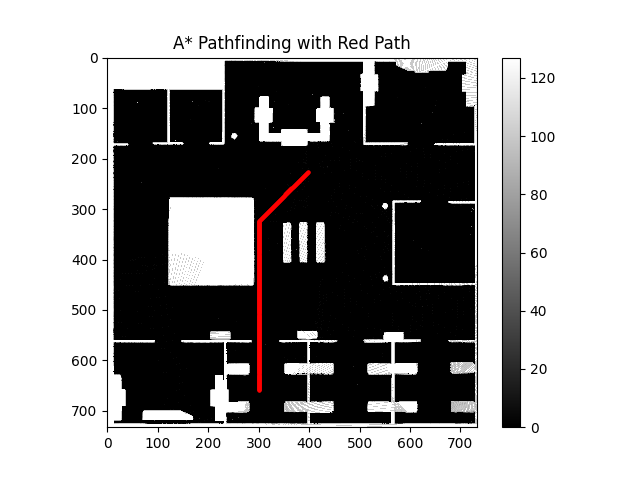
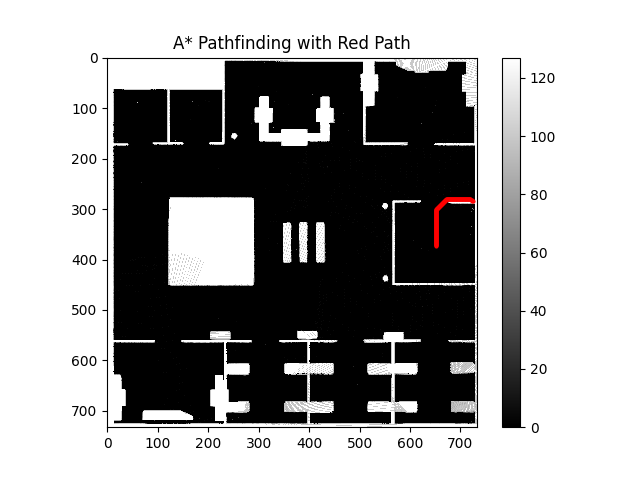
fix:driving_controller.py; 배터리 충전기능 수정

diff --git a/ROS/auto_driving/happie/happie/driving_controller.py b/ROS/auto_driving/happie/happie/driving_controller.py
@@ -22,9 +22,6 @@ class Controller(Node):
         self.priority_work_sub = self.create_subscription(String, '/priority_work', self.priority_work_callback, 1)
 
         self.equipment_detected_sub = self.create_subscription(Int32, '/equipment_detected', self.equipment_callback, 1)
-        #self.move_order_sub = self.create_subscription(Bool, '/move_order', self.move_order_callback, 1)
-        #self.move_order_pub = self.create_publisher(Bool, '/move_order', 1)
-        #self.cmd_publisher = self.create_publisher(Twist, 'cmd_vel', 10)
         self.path_request_pub = self.create_publisher(Point, '/request_new_path', 1) # 장애물 감지 시 새 경로 요청
         self.fall_sub = self.create_subscription(Bool,'/fall_detected',self.fall_callback, 1) # 낙상 감지 
         self.cmd_msg = Twist()
@@ -39,18 +36,18 @@ class Controller(Node):
         self.cum_pose = []
         self.prior_pose = 0.0
         self.present_pose = 0.0
-        self.battery = 1000.0
+        # self.battery = 1000.0
+        self.battery = 13.0
+        self.is_going_charging_station = False
 
         # 이동 타이머 설정
         self.timer = self.create_timer(0.01, self.move_to_destination)
 
         self.is_to_move = False
         self.fall_detected = False
-        #self.is_order = False
+
         # a_star를 통해 생성한 global_path
         self.global_path = [(-51.0,-51.0)]
-        # self.global_path = [(-51.412, -52.948), (-51.412, -52.977999999999994), (-51.412, -53.007999999999996), (-51.412, -53.038), (-51.442, -53.068), (-51.472, -53.098), (-51.502, -53.128), (-51.532000000000004, -53.158), (-51.562000000000005, -53.187999999999995), (-51.592, -53.217999999999996), (-51.622, -53.248), (-51.652, -53.278), (-51.682, -53.308), (-51.712, -53.338), (-51.712, -53.367999999999995), (-51.712, -53.397999999999996), (-51.712, -53.428), (-51.712, -53.458), (-51.712, -53.488), (-51.712, -53.518), (-51.712, -53.547999999999995), (-51.712, -53.577999999999996), (-51.712, -53.608), (-51.712, -53.638), (-51.712, -53.668), (-51.712, -53.698), (-51.712, -53.727999999999994), (-51.712, -53.757999999999996), (-51.742000000000004, -53.788), (-51.742000000000004, -53.818), (-51.742000000000004, -53.848), (-51.742000000000004, -53.878), (-51.742000000000004, -53.908), (-51.742000000000004, -53.937999999999995), (-51.742000000000004, -53.967999999999996), (-51.742000000000004, -53.998), (-51.742000000000004, -54.028), (-51.772000000000006, -54.058), (-51.802, -54.087999999999994), (-51.832, -54.117999999999995), (-51.862, -54.147999999999996), (-51.892, -54.178), (-51.922000000000004, -54.208), (-51.952000000000005, -54.238), (-51.982, -54.268), (-52.012, -54.297999999999995), (-52.042, -54.327999999999996), (-52.072, -54.358), (-52.102000000000004, -54.388), (-52.132000000000005, -54.418), (-52.162000000000006, -54.448), (-52.192, -54.477999999999994), (-52.222, -54.507999999999996), (-52.252, -54.538), (-52.282000000000004, -54.568), (-52.312000000000005, -54.598), (-52.342, -54.628), (-52.372, -54.628), (-52.402, -54.628), (-52.432, -54.628), (-52.462, -54.628), (-52.492000000000004, -54.658), (-52.522000000000006, -54.658), (-52.552, -54.658), (-52.582, -54.658), (-52.612, -54.658), (-52.642, -54.658), (-52.672000000000004, -54.658), (-52.702000000000005, -54.658), (-52.732, -54.658), (-52.762, -54.658), (-52.792, -54.658), (-52.822, -54.658), (-52.852000000000004, -54.658), (-52.882000000000005, -54.658), (-52.912, -54.658), (-52.942, -54.658), (-52.972, -54.658), (-53.002, -54.628), (-53.032000000000004, -54.598), (-53.032000000000004, -54.568), (-53.032000000000004, -54.538), (-53.032000000000004, -54.507999999999996), (-53.032000000000004, -54.477999999999994), (-53.032000000000004, -54.448), (-53.032000000000004, -54.418), (-53.032000000000004, -54.388), (-53.032000000000004, -54.358), (-53.062000000000005, -54.327999999999996), (-53.092, -54.297999999999995), (-53.122, -54.268), (-53.152, -54.238), (-53.182, -54.208), (-53.212, -54.178), (-53.242000000000004, -54.147999999999996), (-53.272000000000006, -54.117999999999995), (-53.302, -54.087999999999994), (-53.302, -54.058), (-53.302, -54.028), (-53.302, -53.998), (-53.302, -53.967999999999996), (-53.302, -53.937999999999995), (-53.302, -53.908), (-53.302, -53.878), (-53.302, -53.848), (-53.302, -53.818), (-53.302, -53.788), (-53.332, -53.757999999999996), (-53.332, -53.727999999999994), (-53.332, -53.698), (-53.332, -53.668), (-53.332, -53.638), (-53.332, -53.608), (-53.332, -53.577999999999996), (-53.332, -53.547999999999995), (-53.332, -53.518), (-53.332, -53.488), (-53.332, -53.458), (-53.332, -53.428), (-53.332, -53.397999999999996), (-53.332, -53.367999999999995), (-53.332, -53.338), (-53.332, -53.308), (-53.332, -53.278), (-53.332, -53.248), (-53.332, -53.217999999999996), (-53.332, -53.187999999999995), (-53.332, -53.158), (-53.332, -53.128), (-53.332, -53.098), (-53.332, -53.068), (-53.332, -53.038), (-53.332, -53.007999999999996), (-53.332, -52.977999999999994), (-53.332, -52.948), (-53.302, -52.918), (-53.302, -52.888), (-53.272000000000006, -52.858), (-53.242000000000004, -52.827999999999996), (-53.212, -52.797999999999995), (-53.212, -52.768), (-53.212, -52.738), (-53.212, -52.708), (-53.212, -52.678), (-53.212, -52.647999999999996), (-53.212, -52.617999999999995), (-53.212, -52.588), (-53.212, -52.558), (-53.212, -52.528), (-53.212, -52.498), (-53.212, -52.467999999999996), (-53.212, -52.437999999999995), (-53.212, -52.408), (-53.212, -52.378), (-53.212, -52.348), (-53.212, -52.318), (-53.212, -52.288), (-53.212, -52.257999999999996), (-53.212, -52.227999999999994), (-53.212, -52.198), (-53.212, -52.168), (-53.212, -52.138), (-53.212, -52.108), (-53.212, -52.077999999999996), (-53.212, -52.047999999999995), (-53.212, -52.018), (-53.212, -51.988), (-53.212, -51.958), (-53.212, -51.928), (-53.212, -51.897999999999996), (-53.212, -51.867999999999995), (-53.212, -51.838), (-53.212, -51.808), (-53.212, -51.778), (-53.212, -51.748), (-53.212, -51.717999999999996), (-53.212, -51.687999999999995), (-53.212, -51.658), (-53.212, -51.628), (-53.212, -51.598), (-53.212, -51.568), (-53.182, -51.538), (-53.152, -51.507999999999996), (-53.122, -51.477999999999994), (-53.092, -51.448), (-53.062000000000005, -51.418), (-53.032000000000004, -51.388), (-53.002, -51.358), (-52.972, -51.327999999999996), (-52.942, -51.297999999999995), (-52.912, -51.268), (-52.882000000000005, -51.238), (-52.852000000000004, -51.208), (-52.822, -51.178), (-52.792, -51.147999999999996), (-52.762, -51.117999999999995), (-52.732, -51.088), (-52.702000000000005, -51.058), (-52.672000000000004, -51.028), (-52.642, -50.998), (-52.612, -50.967999999999996), (-52.582, -50.937999999999995), (-52.552, -50.908), (-52.522000000000006, -50.878), (-52.492000000000004, -50.848), (-52.462, -50.818), (-52.432, -50.788), (-52.402, -50.757999999999996), (-52.372, -50.727999999999994), (-52.342, -50.698), (-52.312000000000005, -50.668), (-52.282000000000004, -50.638), (-52.252, -50.608), (-52.222, -50.577999999999996), (-52.192, -50.547999999999995), (-52.162000000000006, -50.518), (-52.132000000000005, -50.488), (-52.102000000000004, -50.458), (-52.072, -50.428), (-52.042, -50.397999999999996), (-52.012, -50.367999999999995), (-51.982, -50.338), (-51.952000000000005, -50.308), (-51.922000000000004, -50.278), (-51.892, -50.248), (-51.862, -50.217999999999996), (-51.832, -50.187999999999995), (-51.802, -50.158), (-51.772000000000006, -50.128), (-51.742000000000004, -50.098), (-51.712, -50.068), (-51.682, -50.038), (-51.652, -50.038), (-51.622, -50.038), (-51.592, -50.038), (-51.562000000000005, -50.038), (-51.532000000000004, -50.038), (-51.502, -50.038), (-51.472, -50.038), (-51.442, -50.038), (-51.412, -50.038), (-51.382000000000005, -50.038), (-51.352000000000004, -50.038), (-51.322, -50.038), (-51.292, -50.038), (-51.262, -50.038), (-51.232, -50.038), (-51.202000000000005, -50.038), (-51.172000000000004, -50.038), (-51.142, -50.038), (-51.112, -50.038), (-51.082, -50.038), (-51.052, -50.038), (-51.022000000000006, -50.038), (-50.992000000000004, -50.038), (-50.962, -50.038), (-50.932, -50.038), (-50.902, -50.007999999999996), (-50.872, -50.007999999999996), (-50.842000000000006, -50.007999999999996), (-50.812000000000005, -50.007999999999996), (-50.782000000000004, -50.007999999999996), (-50.752, -50.007999999999996), (-50.722, -50.007999999999996), (-50.692, -50.007999999999996), (-50.662, -50.007999999999996), (-50.632000000000005, -50.007999999999996), (-50.602000000000004, -50.007999999999996), (-50.572, -50.007999999999996), (-50.542, -50.007999999999996), (-50.512, -50.007999999999996), (-50.482, -50.007999999999996), (-50.452000000000005, -50.007999999999996), (-50.422000000000004, -50.007999999999996), (-50.392, -50.007999999999996), (-50.362, -50.007999999999996), (-50.332, -50.007999999999996), (-50.302, -50.007999999999996), (-50.272000000000006, -50.007999999999996), (-50.242000000000004, -50.007999999999996), (-50.212, -50.007999999999996), (-50.182, -50.007999999999996), (-50.152, -50.007999999999996), (-50.122, -50.007999999999996), (-50.092000000000006, -50.007999999999996), (-50.062000000000005, -50.007999999999996), (-50.032000000000004, -50.007999999999996), (-50.002, -50.007999999999996)]
-        # self.global_path = self.global_path[::6]
         self.current_goal_idx = 0
 
         # 우선 명령 변수
@@ -98,9 +95,19 @@ class Controller(Node):
                 self.is_to_move = True
     
     def scan_callback(self, msg):
+        # 충전 상태관리
+        if math.hypot(-42.44 - self.pose_x, -45.6 - self.pose_y) < 0.1:
+            self.is_to_move = False
+            self.is_charging = True
+            if self.is_going_charging_station == True: 
+                self.is_going_charging_station = False
+        else:
+            self.is_charging = False
+
         self.cum_pose.append(msg)
         # 매 초당, 대기전력 0.01 사용
         self.battery -= 0.01
+        # self.battery -= 0.01
         self.battery = max(self.battery, 0.0)
         # 위치 초기값 설정
         if self.prior_pose == 0.0:
@@ -181,6 +188,7 @@ class Controller(Node):
 
 
     def global_path_callback(self, msg):
+        print('global pathh callback ==========')
         path = [(pose.pose.position.x, pose.pose.position.y) for pose in msg.poses]
         self.global_path = path
         self.goal.x = path[0][0]
@@ -199,14 +207,16 @@ class Controller(Node):
         path_request_msg = Point()
         # 충전소 보내기
         if type == 'charge':
+            print('충전명령 받음')
             path_request_msg.x = -42.44
             path_request_msg.y = -45.60
             path_request_msg.z = self.object_angle
+            self.is_going_charging_station = True
         
         elif type == 'new_goal':
             pass
+
         else:
-            # print(f"📢 새로운 경로 요청! 목적지: ({self.global_path[-1][0]}, {self.global_path[-1][1]})")
             path_request_msg.x = self.global_path[-1][0]
             path_request_msg.y = self.global_path[-1][1]
             path_request_msg.z = self.object_angle
@@ -258,10 +268,12 @@ class Controller(Node):
             self.order_id = None
 
     def move_to_destination(self):
+        # print("self.path_requested, self.is_charging, self.is_going_charging_station, self.is_charging")
+        # print(self.path_requested, self.is_charging, self.is_going_charging_station, self.is_charging)
         # print(f'배터리 잔량 {round(self.battery, 2)}%')
         self.object_detected_cnt -= 0.2
 
-        # heading 오차 보정
+        # heading 오차 보정 ==============================
         if self.correct_Gaussian_error['status'] == True:
             vel_msg = Twist()
             # 각도 차이 구하기 STEP 1
@@ -290,24 +302,24 @@ class Controller(Node):
 
             self.pub.publish(vel_msg)
             return
-        
-        # 우선순위 작업이 없는 경우
-        if self.is_priority_work == False:
-            # if self.path_requested == False:
-            if self.path_requested == 1:
-                if self.battery < 10.0 and self.is_charging == False:
-                    self.turtlebot_stop() 
-                    self.request_new_path('charge')
-                    self.path_requested = True  # 한 번만 요청하도록 설정
+
+        # ==============================
+        if self.path_requested == False:
+            if self.battery < 10.0 and self.is_charging == False and self.is_going_charging_station == False:
+                self.turtlebot_stop()
+                print('배터리 충전소 이동 시작')
+                self.request_new_path('charge')
+                self.path_requested = True  # 한 번만 요청하도록 설정
+                return
+            
+            if self.is_charging:
+                print('배터리 충전중')
+                # 배터리 충전
+                self.battery += 1.0
+                self.battery = min(self.battery, 100.0)
+                #  배터리가 충전 중이면서, 배터리 잔량이 50% 미만인 경우, 다른 명령 수행 불가능
+                if self.battery < 50.0:
                     return
-                if self.is_charging:
-                    if math.hypot(self.pose_x - -42.44, self.pose_y - 45.6) < 5:
-                        # 배터리 충전
-                        self.battery += 1.0
-                        self.battery = min(self.battery, 100.0)
-                        #  배터리가 충전 중이면서, 배터리 잔량이 50% 미만인 경우, 다른 명령 수행 불가능
-                        if self.battery < 50.0:
-                            return
                     
             vel_msg = Twist()
             if self.is_to_move == False: 
@@ -390,12 +402,12 @@ class Controller(Node):
                         # vel_msg.angular.z = 0.0  # 직진 시 회전 없음
 
             self.pub.publish(vel_msg)
-        # 우선순위 작업이 존재하는 경우
+        
+        # self.is_to_move == False
         else:
-            self.turtlebot_stop() 
-            print('잠시 대기')
-            pass
-
+            self.turtlebot_stop()
+            return 
+        
     def turtlebot_stop(self):
         # self.get_logger().info("Turtlebot stopping")
         # print("=================정지================")

diff --git a/ROS/auto_driving/happie/happie/a_star.py b/ROS/auto_driving/happie/happie/a_star.py
@@ -266,6 +266,8 @@ class a_star(Node):
 
     # 최단 경로 재계산 요청을 처리
     def path_request_callback(self, msg):
+        print('경로요청 명령 받음')
+        print(msg)
         try:
             new_goal_x = msg.x
             new_goal_y = msg.y
